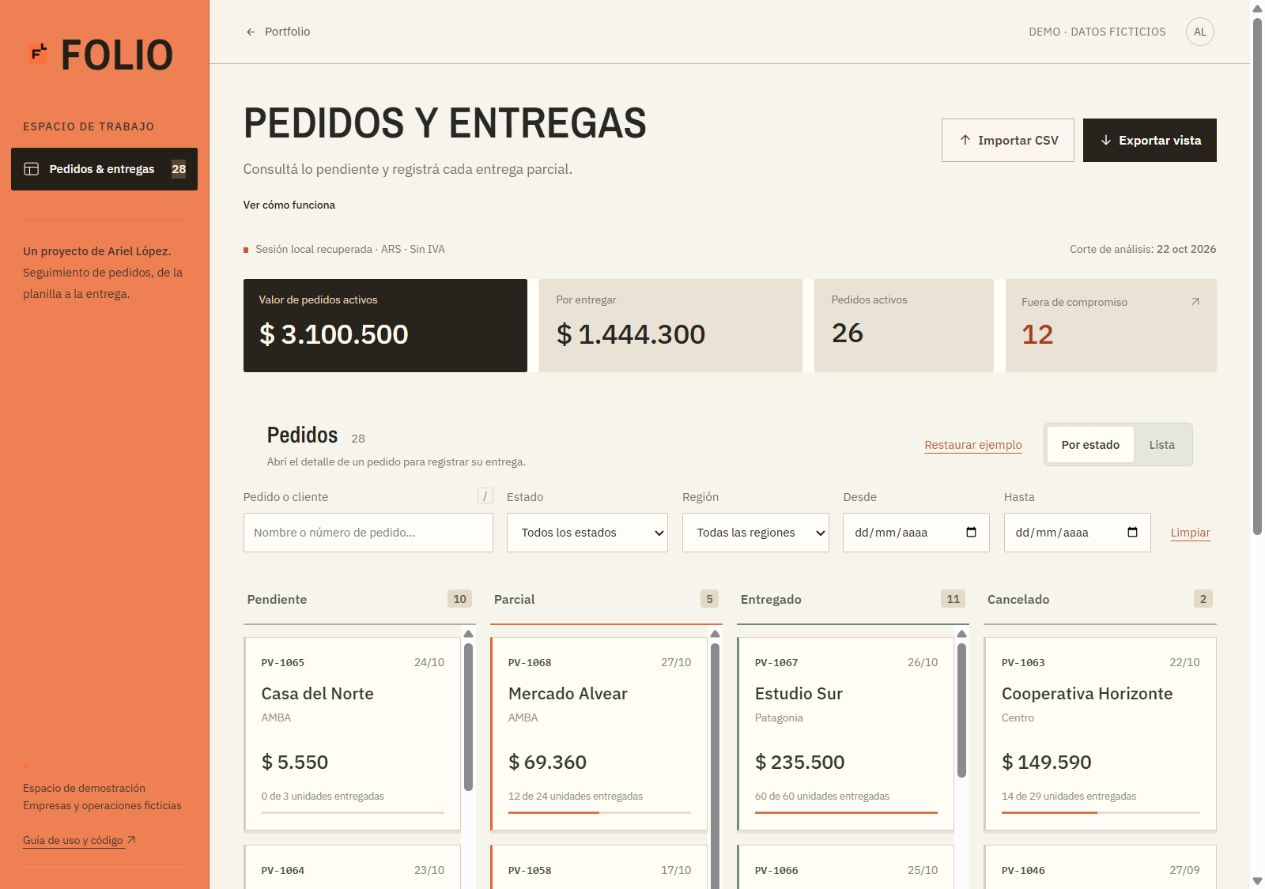
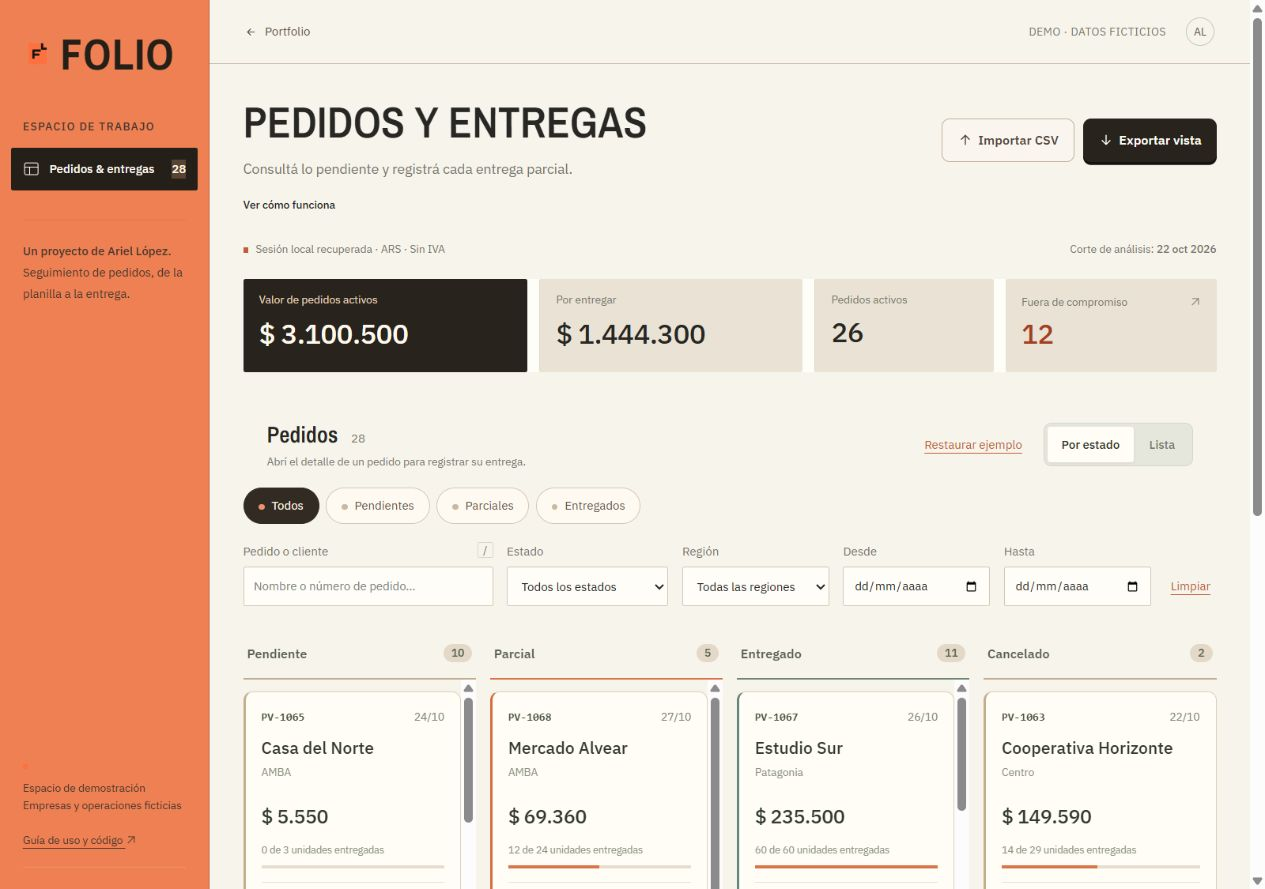
Add tactile order controls and delivery shortcuts

diff --git a/product.css b/product.css
@@ -625,3 +625,168 @@ td {
     font-size: 34px;
   }
 }
+
+/* Controls feel like a dispatch desk, and provide real shortcuts. */
+.button,
+.primary,
+.view-switch {
+  border-radius: 8px;
+}
+.button.primary {
+  background: #29231e;
+  box-shadow: 0 3px 0 #15130f;
+  transition:
+    transform 0.15s,
+    box-shadow 0.15s;
+}
+.button.primary:hover:not(:disabled) {
+  background: #b64e2c;
+  color: #fff;
+  transform: translateY(-1px);
+}
+.button.primary:active:not(:disabled) {
+  transform: translateY(2px);
+  box-shadow: none;
+}
+.status-shortcuts {
+  display: flex;
+  gap: 7px;
+  margin: 18px 0 0;
+  flex-wrap: wrap;
+}
+.status-shortcuts button {
+  border: 1px solid #d2c7b4;
+  background: #fffaf1;
+  color: #66574a;
+  border-radius: 24px;
+  padding: 8px 15px;
+  font-size: 12px;
+  min-height: 36px;
+  transition:
+    background 0.18s,
+    transform 0.18s;
+}
+.status-shortcuts button:before {
+  content: '';
+  display: inline-block;
+  width: 6px;
+  height: 6px;
+  border-radius: 50%;
+  background: #c9b99e;
+  margin-right: 7px;
+}
+.status-shortcuts button[aria-pressed='true'] {
+  background: #322b23;
+  color: #fff4e5;
+  border-color: #322b23;
+}
+.status-shortcuts button[aria-pressed='true']:before {
+  background: #ee936c;
+}
+.status-shortcuts button:hover {
+  transform: translateY(-2px);
+}
+.order-card {
+  border: 1px solid #dccfba;
+  border-left: 3px solid #c2ae8b;
+  border-radius: 9px;
+  box-shadow: 0 3px 8px #4a321209;
+  transition:
+    transform 0.2s,
+    box-shadow 0.2s;
+}
+.order-card:hover,
+.order-card:focus-visible {
+  transform: translateY(-4px);
+  box-shadow: 0 8px 18px #4a321218;
+}
+.order-card:after {
+  content: 'Abrir pedido ↗';
+  display: block;
+  font-size: 10px;
+  color: #a64d2c;
+  border-top: 1px solid #e8dfd1;
+  margin-top: 14px;
+  padding-top: 8px;
+}
+.state-entregado .order-card {
+  border-left-color: #638779;
+}
+.state-parcial .order-card {
+  border-left-color: #d66b3f;
+}
+.board-column h3 {
+  font-size: 13px;
+}
+.board-count {
+  border-radius: 12px;
+  padding: 2px 8px;
+}
+.detail-line {
+  display: grid;
+  grid-template-columns: 1fr auto;
+  gap: 14px;
+  border-radius: 10px;
+  background: #f4eee1;
+  border: 1px solid #e1d4bf;
+}
+.delivery-shortcuts {
+  display: flex;
+  gap: 6px;
+  grid-column: 1/-1;
+}
+.delivery-shortcuts button {
+  border: 1px solid #cbb99c;
+  background: #fffaf1;
+  border-radius: 7px;
+  padding: 7px 14px;
+  font-size: 12px;
+  min-height: 36px;
+  box-shadow: 0 2px 0 #d9c9ac;
+}
+.delivery-shortcuts button:last-child {
+  background: #e78156;
+  border-color: #b6633e;
+  color: #2c2118;
+}
+.delivery-shortcuts button:active {
+  transform: translateY(2px);
+  box-shadow: none;
+}
+.delivery-shortcuts button:disabled {
+  opacity: 0.45;
+}
+.delivery-draft {
+  grid-column: 1/-1;
+  font-size: 11px;
+  color: #6f604d;
+}
+.detail-actions .primary {
+  min-height: 44px;
+}
+@media (max-width: 680px) {
+  .status-shortcuts {
+    gap: 6px;
+  }
+  .status-shortcuts button {
+    padding: 7px 11px;
+    font-size: 11px;
+  }
+  .detail-line {
+    grid-template-columns: 1fr;
+  }
+  .delivery-shortcuts {
+    flex-wrap: wrap;
+  }
+}
+@media (prefers-reduced-motion: reduce) {
+  .status-shortcuts button,
+  .order-card,
+  .button.primary {
+    transition: none;
+  }
+  .status-shortcuts button:hover,
+  .order-card:hover {
+    transform: none;
+  }
+}

diff --git a/src/app.js b/src/app.js
@@ -1,3 +1,4 @@
+import { enhanceDeliveryControls } from './delivery-controls.js';
 import { createOrderBoard } from './order-board.js';
 import { icon } from './icons.js';
 import { initVideoDemos } from './video.js';
@@ -154,6 +155,14 @@ function render() {
   const list = invalidDates ? [] : visibleOrders();
   const totals = summarize(list);
   renderBoard(list);
+  document
+    .querySelectorAll('[data-status-shortcut]')
+    .forEach((button) =>
+      button.setAttribute(
+        'aria-pressed',
+        String(button.dataset.statusShortcut === $('#status').value),
+      ),
+    );
   $('#metric-booked').textContent = money(totals.booked);
   $('#metric-pending').textContent = money(totals.pending);
   $('#metric-count').textContent = totals.count;
@@ -208,6 +217,7 @@ function openDetail(id) {
   const value = amounts(order);
   $('#detail-content').innerHTML =
     `<h2 id="detail-title">${escape(order.id)}</h2><p class="subtitle">${escape(order.customer)} · ${escape(order.region)}</p><span class="status ${status(order).toLowerCase()}">${status(order)}</span><div class="detail-info"><div><small>Fecha de alta</small><strong>${date(order.date)}</strong></div><div><small>Compromiso</small><strong>${date(order.due)}</strong></div><div><small>Valor neto</small><strong>${money(value.total)}</strong></div></div><p class="subtitle">Registrá la cantidad acumulada entregada por material. Los importes se recalculan al guardar.</p><form id="delivery-form"><div class="detail-lines">${order.lines.map((line, index) => `<div class="detail-line"><div><p>${escape(line.description)}</p><small>${escape(line.sku)} · ${line.quantity} un. × ${money(line.unitPriceCents)}</small></div><label>Entregado de ${line.quantity}<input aria-label="Entrega acumulada ${escape(line.sku)}" name="delivery-${index}" type="number" min="0" max="${line.quantity}" step="1" required value="${line.delivered}" ${order.cancelled ? 'disabled' : ''}></label></div>`).join('')}</div><p id="detail-error" role="alert" class="error" hidden></p><div class="detail-actions"><button type="button" class="quiet" id="cancel-order">${order.cancelled ? 'Reactivar pedido' : 'Cancelar pedido'}</button><button class="button primary" ${order.cancelled ? 'disabled' : ''}>Guardar entrega</button></div></form>`;
+  enhanceDeliveryControls($('#detail-content'));
   if (!$('#detail').open) {
     $('#detail').showModal();
     document.documentElement.style.overflow = 'hidden';

diff --git a/src/delivery-controls.js b/src/delivery-controls.js
@@ -1,0 +1,46 @@
+export function enhanceDeliveryControls(container) {
+  container.querySelectorAll('.detail-line').forEach((line) => {
+    const input = line.querySelector('input[type=number]');
+    if (!input || input.disabled) return;
+    const controls = document.createElement('div');
+    controls.className = 'delivery-shortcuts';
+    controls.setAttribute('role', 'group');
+    controls.setAttribute('aria-label', `Preparar entrega: ${input.getAttribute('aria-label')}`);
+    const output = document.createElement('p');
+    output.className = 'delivery-draft';
+    output.setAttribute('aria-live', 'polite');
+    const update = () => {
+      const value = input.valueAsNumber,
+        maximum = Number(input.max);
+      output.textContent =
+        Number.isInteger(value) && value >= 0 && value <= maximum
+          ? `${value} entregadas · ${maximum - value} pendientes. Se aplica al guardar.`
+          : 'Ingresá una cantidad entera dentro del pedido.';
+      controls.querySelectorAll('button').forEach((button) => {
+        button.disabled = Number.isFinite(value) && value >= maximum;
+      });
+    };
+    [
+      ['+1', 1],
+      ['+6', 6],
+      ['Completar', null],
+    ].forEach(([label, step]) => {
+      const button = document.createElement('button');
+      button.type = 'button';
+      button.textContent = label;
+      button.addEventListener('click', () => {
+        const value = Number.isFinite(input.valueAsNumber) ? input.valueAsNumber : 0;
+        input.value = String(
+          step === null
+            ? Number(input.max)
+            : Math.min(Number(input.max), Math.max(0, value) + step),
+        );
+        input.dispatchEvent(new Event('input', { bubbles: true }));
+      });
+      controls.append(button);
+    });
+    input.addEventListener('input', update);
+    line.append(controls, output);
+    update();
+  });
+}

diff --git a/index.html b/index.html
@@ -19,15 +19,15 @@
     <link rel="stylesheet" href="style.css?v=20261101-type-1" />
     <link rel="stylesheet" href="tutorial.css?v=20261101-type-1" />
     <link rel="stylesheet" href="identity.css?v=20261101-type-1" />
-    <script type="module" src="src/app.js?v=20261101-type2-1"></script>
+    <script type="module" src="src/app.js?v=20261101-controls-1"></script>
     <script type="module" src="src/tutorial.js?v=20261101-type-1"></script>
-    <link rel="stylesheet" href="direction.css?v=20261101-type2-1" />
+    <link rel="stylesheet" href="direction.css?v=20261101-controls-1" />
     <link rel="stylesheet" href="video.css?v=20261101-type-1" />
-    <script type="module" src="src/brand-motion.js?v=20261101-type2-1"></script>
-    <link rel="stylesheet" href="brand-lab.css?v=20261101-type2-1" />
-    <script type="module" src="src/brand-lab.js?v=20261101-type2-1"></script>
-    <link rel="stylesheet" href="workspace.css?v=20261101-type2-1" />
-    <link rel="stylesheet" href="product.css?v=20261101-type2-1" />
+    <script type="module" src="src/brand-motion.js?v=20261101-controls-1"></script>
+    <link rel="stylesheet" href="brand-lab.css?v=20261101-controls-1" />
+    <script type="module" src="src/brand-lab.js?v=20261101-controls-1"></script>
+    <link rel="stylesheet" href="workspace.css?v=20261101-controls-1" />
+    <link rel="stylesheet" href="product.css?v=20261101-controls-1" />
   </head>
   <body>
     <a class="skip" href="#main">Saltar al contenido</a>

diff --git a/src/order-board.js b/src/order-board.js
@@ -27,6 +27,29 @@ export function createOrderBoard(openDetail) {
   switcher.innerHTML =
     '<button type="button" data-order-view="board" aria-pressed="true">Por estado</button><button type="button" data-order-view="list" aria-pressed="false">Lista</button>';
   panel.querySelector('.orders-heading').append(switcher);
+  const shortcuts = document.createElement('div');
+  shortcuts.className = 'status-shortcuts';
+  shortcuts.setAttribute('role', 'group');
+  shortcuts.setAttribute('aria-label', 'Filtrar pedidos por estado');
+  [
+    ['', 'Todos'],
+    ['Pendiente', 'Pendientes'],
+    ['Parcial', 'Parciales'],
+    ['Entregado', 'Entregados'],
+  ].forEach(([value, label]) => {
+    const button = document.createElement('button');
+    button.type = 'button';
+    button.dataset.statusShortcut = value;
+    button.textContent = label;
+    button.setAttribute('aria-pressed', String(value === ''));
+    button.addEventListener('click', () => {
+      const select = document.querySelector('#status');
+      select.value = value;
+      select.dispatchEvent(new Event('input', { bubbles: true }));
+    });
+    shortcuts.append(button);
+  });
+  panel.querySelector('.filters').before(shortcuts);
   let view = 'board',
     lastOpened;
   function applyView() {

diff --git a/README.md b/README.md
@@ -213,3 +213,9 @@ Folio usa una navegación naranja, Bricolage en títulos e importes, IBM Plex Sa
 ## Tipografía de comprobantes · 01/11/2026
 
 La marca y los títulos usan Archivo Narrow (Omnibus-Type), con licencia OFL local en assets. Se retiró Bricolage de la dirección actual. Los importes vuelven a IBM Plex Sans para leerlos con facilidad. Se conserva la estructura y las interacciones del tablero; nueva captura de escritorio.
+
+## Atajos y preparación de entregas · 01/11/2026
+
+Los filtros rápidos Todos/Pendientes/Parciales/Entregados usan el mismo filtro de estado que el selector y sincronizan aria-pressed. En la ficha, +1, +6 y Completar preparan la cantidad; no persisten nada hasta Guardar entrega. Respetan el máximo del material y se omiten en pedidos cancelados. El borrador anuncia unidades entregadas y pendientes. Tarjetas y controles tienen profundidad discreta, estados de foco y respuesta al pulsar.
+
+Validación local: 26 pruebas, filtro Parciales (5), preparación 12 → 18 → 24 sin sobreentrega, guardado de 18 y restauración de 12. Revisión móvil de la ficha y controles.
